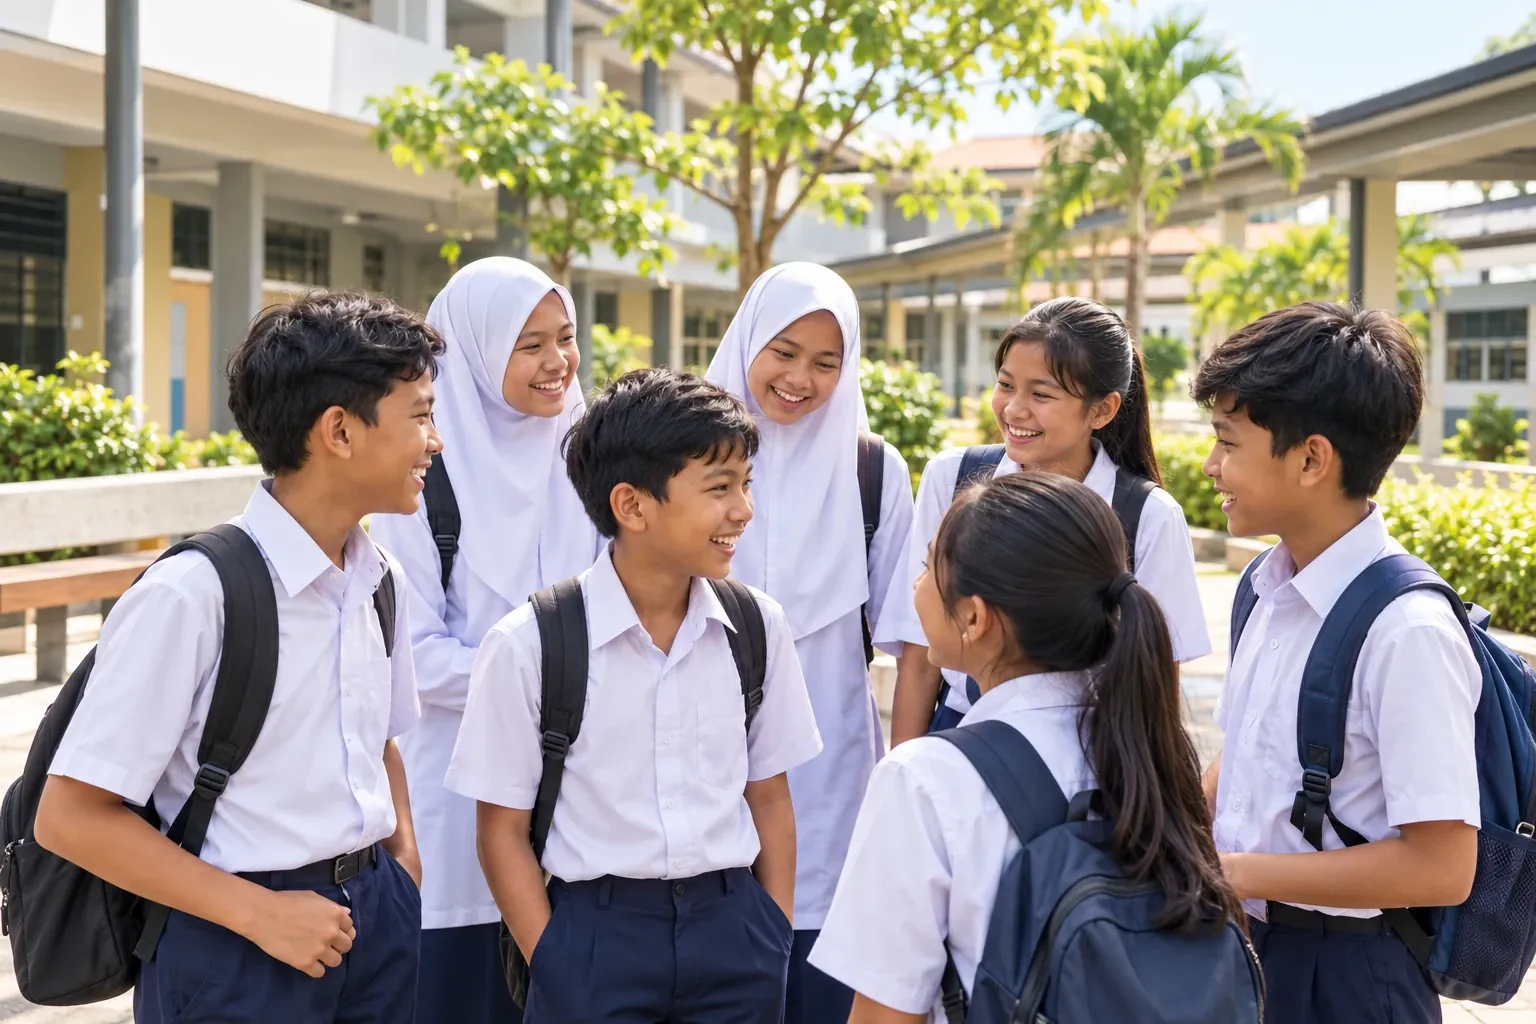
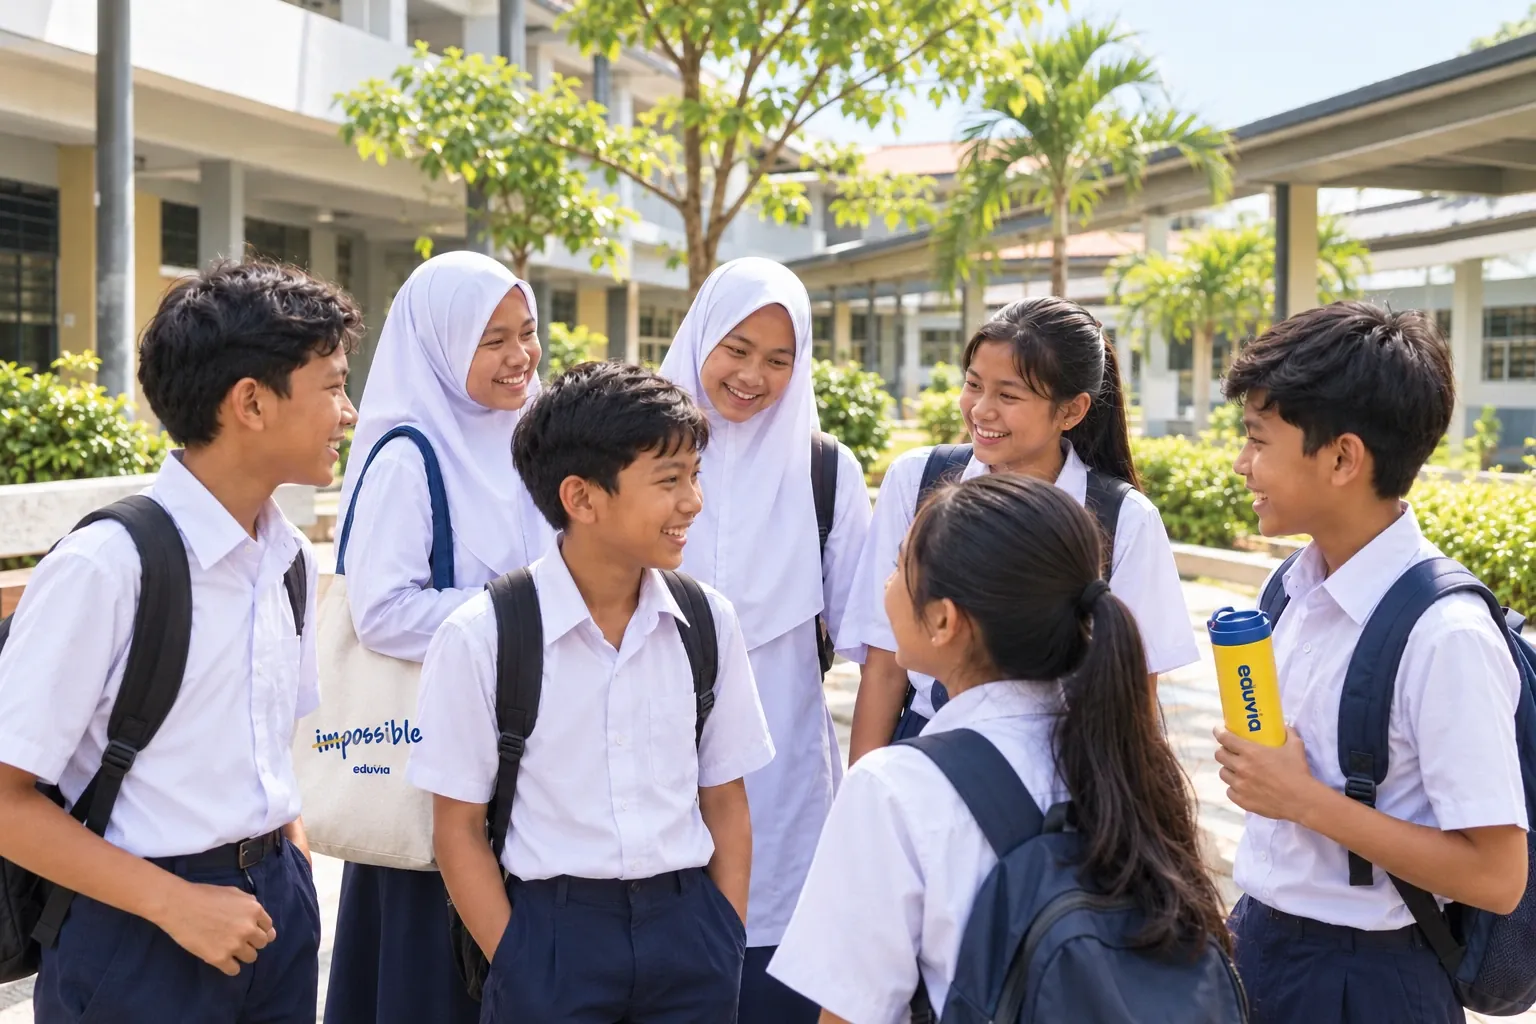
Hero: new photo of students with Eduvia tote bag and bottle
Same 1536 and 900px WebP sizes and crop as before; the alt text now
mentions the Eduvia bag and bottle.

Claude-Session: https://claude.ai/code/session_01Hb56ogdMb7XVcJ5pHWRUvL

diff --git a/index.html b/index.html
@@ -70,8 +70,8 @@
              srcset="assets/img/hero-students-900.webp 900w, assets/img/hero-students-1536.webp 1536w"
              sizes="(max-width: 900px) 100vw, 64vw"
              width="1536" height="1024" fetchpriority="high"
-             alt="Sekumpulan pelajar sekolah berpakaian seragam berbual dan tersenyum di kawasan sekolah"
-             data-en-alt="A group of students in school uniform chatting and smiling in a school courtyard">
+             alt="Sekumpulan pelajar sekolah berpakaian seragam berbual dan tersenyum di kawasan sekolah, dengan beg dan botol air Eduvia"
+             data-en-alt="A group of students in school uniform chatting and smiling in a school courtyard, with an Eduvia tote bag and water bottle">
       </div>
       <div class="container hero-inner">
         <div class="hero-copy">
